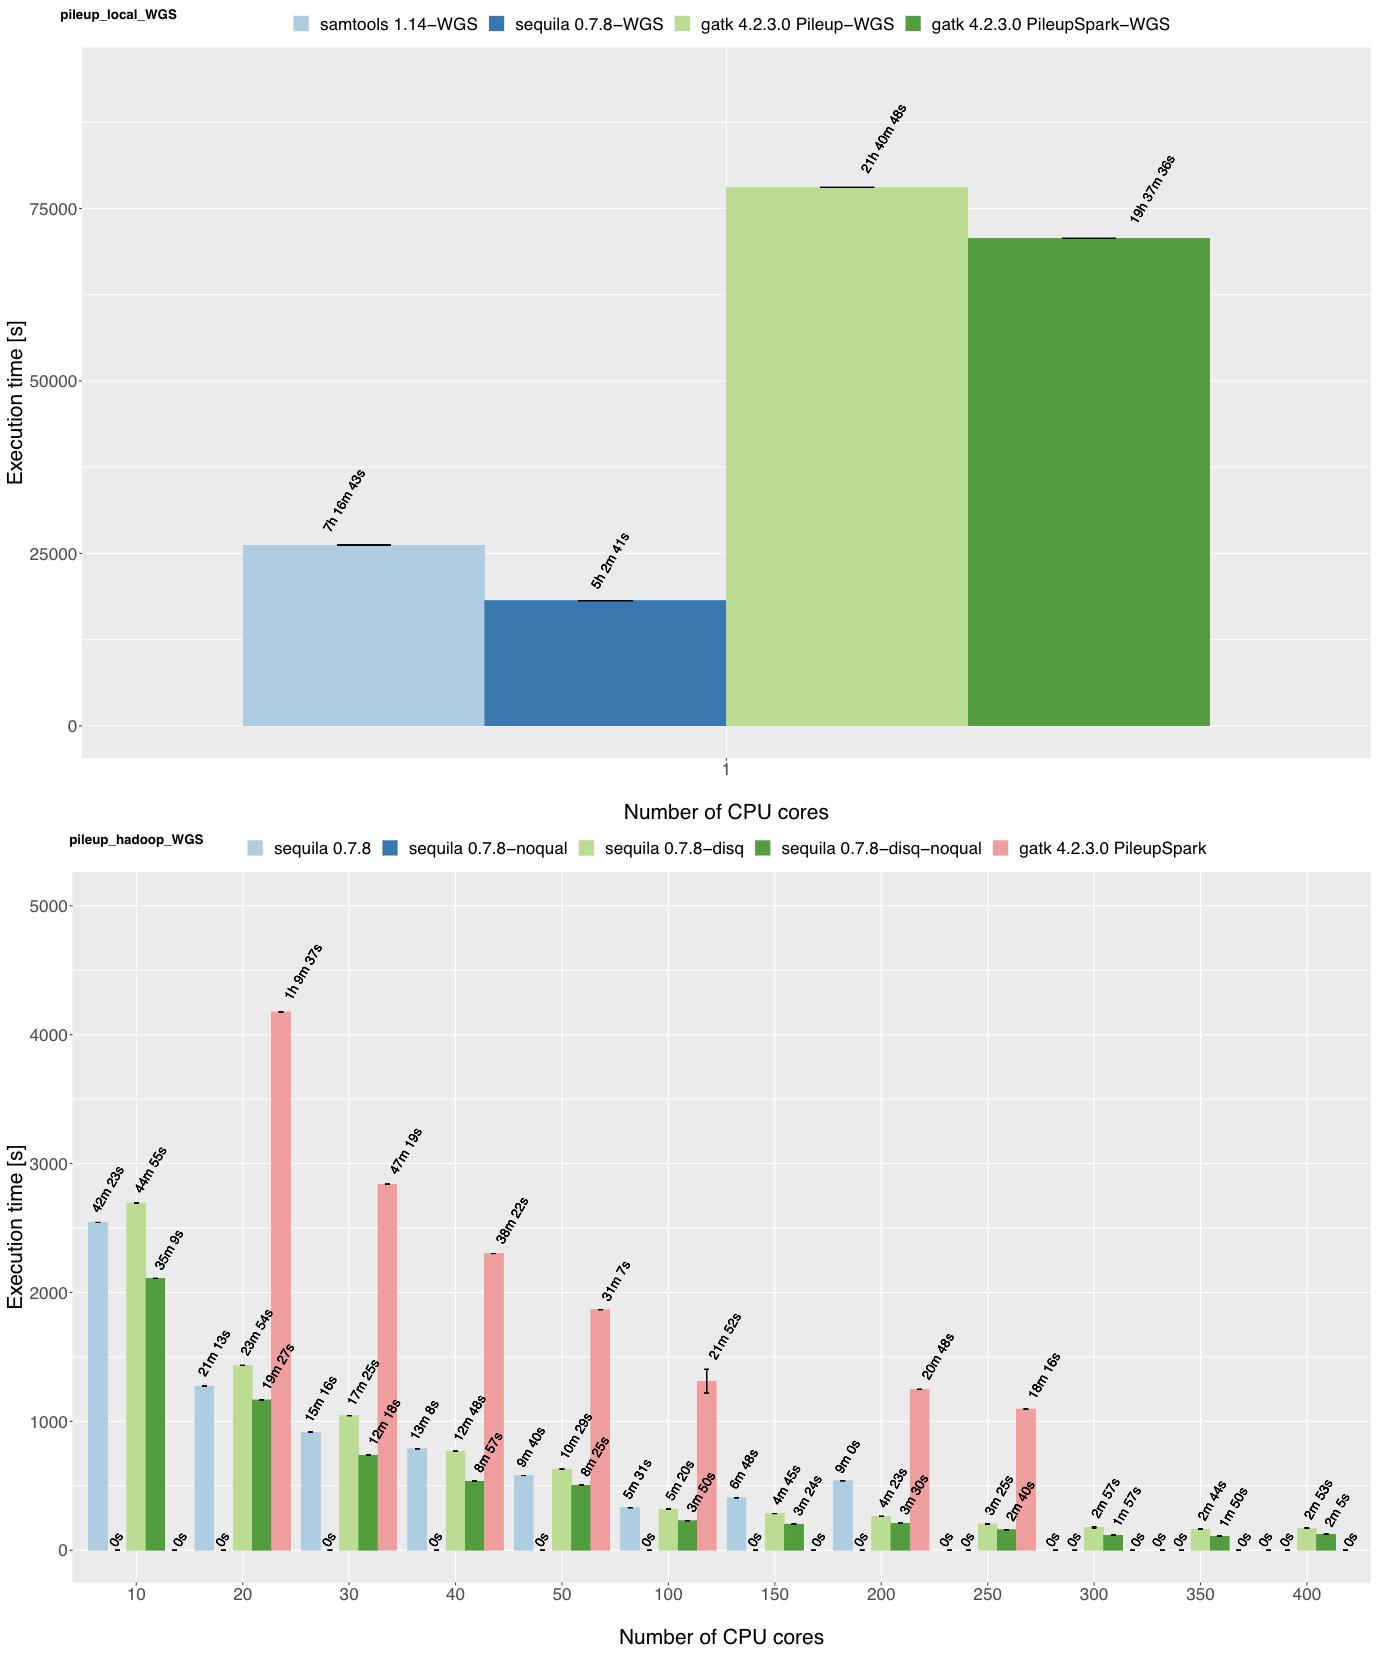
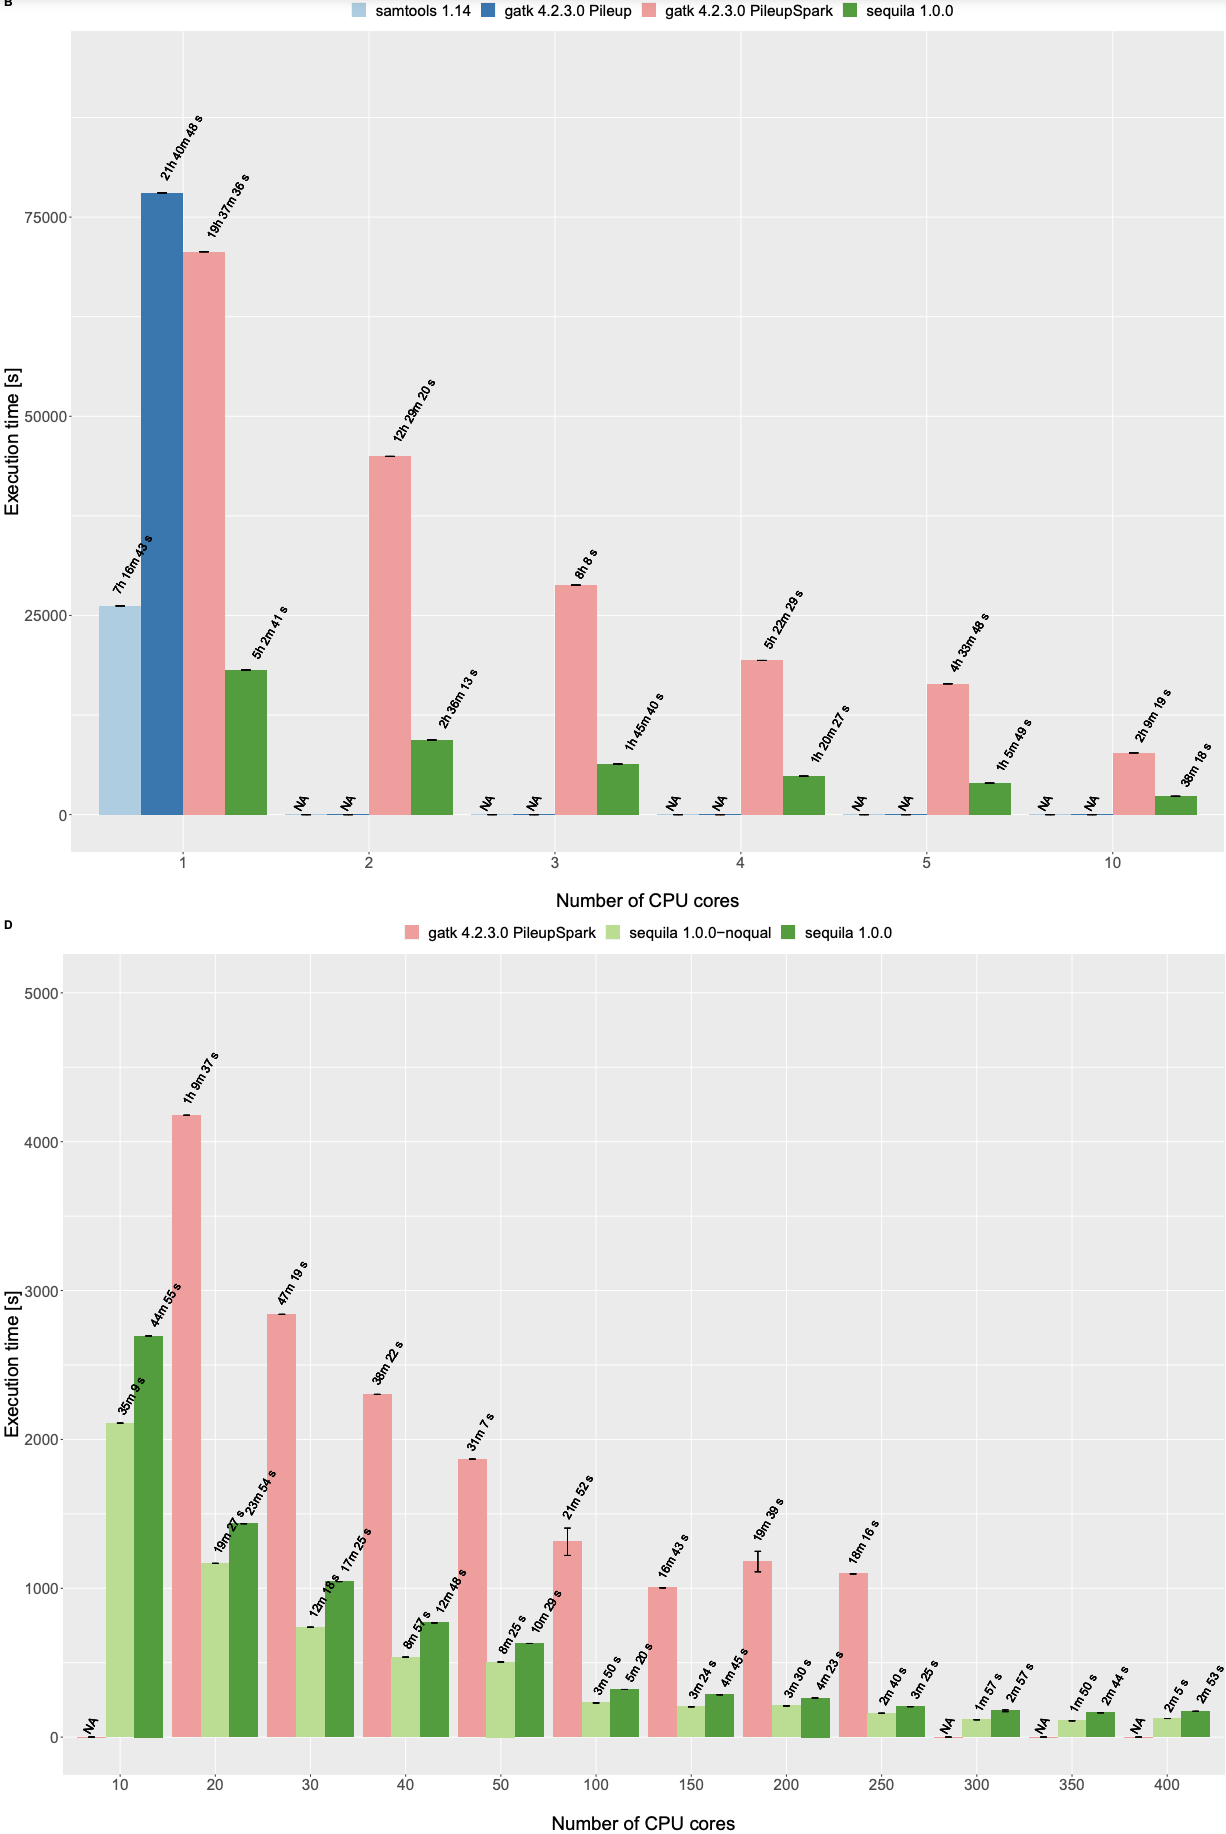
Benchmarking and page update

diff --git a/page/content/en/_index.html b/page/content/en/_index.html
@@ -130,7 +130,7 @@ SELECT * FROM pileup('reads', 'NA12878','{{ PWD }}/data/hg18.fasta', false) LIMI
 		{{< highlight bash>}}
 pyspark --master local[1] \
 		--driver-memory 4g \
-		--packages org.biodatageeks:sequila_2.12:0.7.9
+		--packages org.biodatageeks:sequila_2.12:1.0.0
 		{{< / highlight >}}
 		{{< highlight python>}}
 from pysequila import SequilaSession
@@ -187,7 +187,7 @@ SELECT * FROM coverage('reads', 'NA12878','{{ PWD }}/data/hg18.fasta') LIMIT 10;
 		{{< highlight bash>}}
 pyspark --master local[1] \
 --driver-memory 4g \
---packages org.biodatageeks:sequila_2.12:0.7.9
+--packages org.biodatageeks:sequila_2.12:1.0.0
 		{{< / highlight >}}
 {{< highlight python>}}
 from pysequila import SequilaSession
@@ -256,7 +256,7 @@ reads.pos_start <= targets.pos_end
 		{{< highlight bash>}}
 pyspark --master local[1] \
 --driver-memory 4g \
---packages org.biodatageeks:sequila_2.12:0.7.9
+--packages org.biodatageeks:sequila_2.12:1.0.0
 		{{< / highlight >}}
 		{{< highlight python>}}
 targets_df = ss.read\

diff --git a/page/content/en/docs/Benchmarks/pileup.md b/page/content/en/docs/Benchmarks/pileup.md
@@ -12,7 +12,7 @@ description: >
 ### Datasets
 |Type| File      | Size [GB]  |Download| 
 |----|-----------|--------|--------|
-|WES|NA12878.proper.wes.md.bam| 17 |[BAM](https://storage.googleapis.com/biodatageeks/sequila/data/WES/NA12878.proper.wes.md.bam) [BAI](https://storage.googleapis.com/biodatageeks/sequila/data/WES/NA12878.proper.wes.md.bam.bai) [SBI](https://storage.googleapis.com/biodatageeks/sequila/data/WES/NA12878.proper.wes.md.bam.sbi)|
+|ES|NA12878.proper.wes.md.bam| 17 |[BAM](https://storage.googleapis.com/biodatageeks/sequila/data/WES/NA12878.proper.wes.md.bam) [BAI](https://storage.googleapis.com/biodatageeks/sequila/data/WES/NA12878.proper.wes.md.bam.bai) [SBI](https://storage.googleapis.com/biodatageeks/sequila/data/WES/NA12878.proper.wes.md.bam.sbi)|
 |WGS|NA12878.proper.wgs.md.bam| 278|[BAM](https://storage.googleapis.com/biodatageeks/sequila/data/WGS/NA12878.proper.wgs.md.bam) [BAI](https://storage.googleapis.com/biodatageeks/sequila/data/WGS/NA12878.proper.wgs.md.bam.bai) [SBI](https://storage.googleapis.com/biodatageeks/sequila/data/WGS/NA12878.proper.wgs.md.bam.sbi)|
 |Reference|Homo_sapiens_assembly18.fasta| 2.9 | [FASTA](https://storage.googleapis.com/biodatageeks/sequila/data/reference/Homo_sapiens_assembly18.fasta) [FAI](https://storage.googleapis.com/biodatageeks/sequila/data/reference/Homo_sapiens_assembly18.fasta.fai)|
 
@@ -29,7 +29,7 @@ description: >
 | [samtools](https://github.com/samtools/samtools)| 1.9 | yes | yes | no | no |
 | [samtools](https://github.com/samtools/samtools)| 1.14 | yes | yes | yes(only coverage, I/O) | no |
 | [SeQuiLa-cov](https://github.com/biodatageeks/sequila)| 0.6.11 | no | yes | yes| yes |
-| [SeQuiLa](https://github.com/biodatageeks/sequila)| 0.7.9 | yes | yes | yes| yes |
+| [SeQuiLa](https://github.com/biodatageeks/sequila)| 1.0.0 | yes | yes | yes| yes |
 
 ### Single node specification
 
@@ -114,7 +114,14 @@ ss.time{
 
 ### Results single node
 #### Coverage
+{{< figure src="../coverage-single-node.png" >}}
+
 #### Pileup
+{{< figure src="../pileup-single-node.png" >}}
+
 ### Results Hadoop cluster
 #### Coverage
+{{< figure src="../coverage-cluster.png" >}}
+
 #### Pileup
+{{< figure src="../pileup-cluster.png" >}}

diff --git a/page/content/en/docs/Configuration/join.md b/page/content/en/docs/Configuration/join.md
@@ -12,4 +12,4 @@ description: >
 |spark.biodatageeks.rangejoin.maxBroadcastSize| 0.1*spark.driver.memory| The maximum allowed size of the broadcasted intverval structure which is used by the SeQuiLa's optimizer to chose interval join [algorithm](http://biodatageeks.ii.pw.edu.pl/sequila/architecture/architecture.html#optimizations).|
 |spark.biodatageeks.rangejoin.maxGap| 0 | The maximum gap between between regions |
 |spark.biodatageeks.rangejoin.minOverlap| 1 | The minimal length of the overlap between regions |
-|spark.biodatageeks.rangejoin.intervalHolderClass|[`IntervalTreeRedBlack`](https://github.com/biodatageeks/sequila/blob/master/src/main/scala/org/biodatageeks/sequila/rangejoins/methods/IntervalTree/IntervalTreeRedBlack.java)| [Pluggable](http://biodatageeks.ii.pw.edu.pl/sequila/architecture/architecture.html#custom-interval-structure) mechanism for implementing custom interval structures.|
+|spark.biodatageeks.rangejoin.intervalHolderClass|[`IntervalTreeRedBlack`](https://github.com/biodatageeks/sequila/blob/master/src/main/scala/org/biodatageeks/sequila/rangejoins/methods/IntervalTree/IntervalTreeRedBlack.java)| [Pluggable](/sequila/docs/algorithms/join/#custom-interval-structure) mechanism for implementing custom interval structures.|

diff --git a/page/content/en/docs/Algorithms/Pileup.md b/page/content/en/docs/Algorithms/Pileup.md
@@ -7,4 +7,4 @@ description: >
     SeQuiLa's Pileup and coverage algorithm description
 ---
 
-Stay tuned for our new research paper [Reproducible, scalable and cloud-ready genomic pileup operations]() that will be published in January 2022!
+Stay tuned for our new research paper [Cloud-native distributed genomic pileup operations]() that will be published in January 2022!
